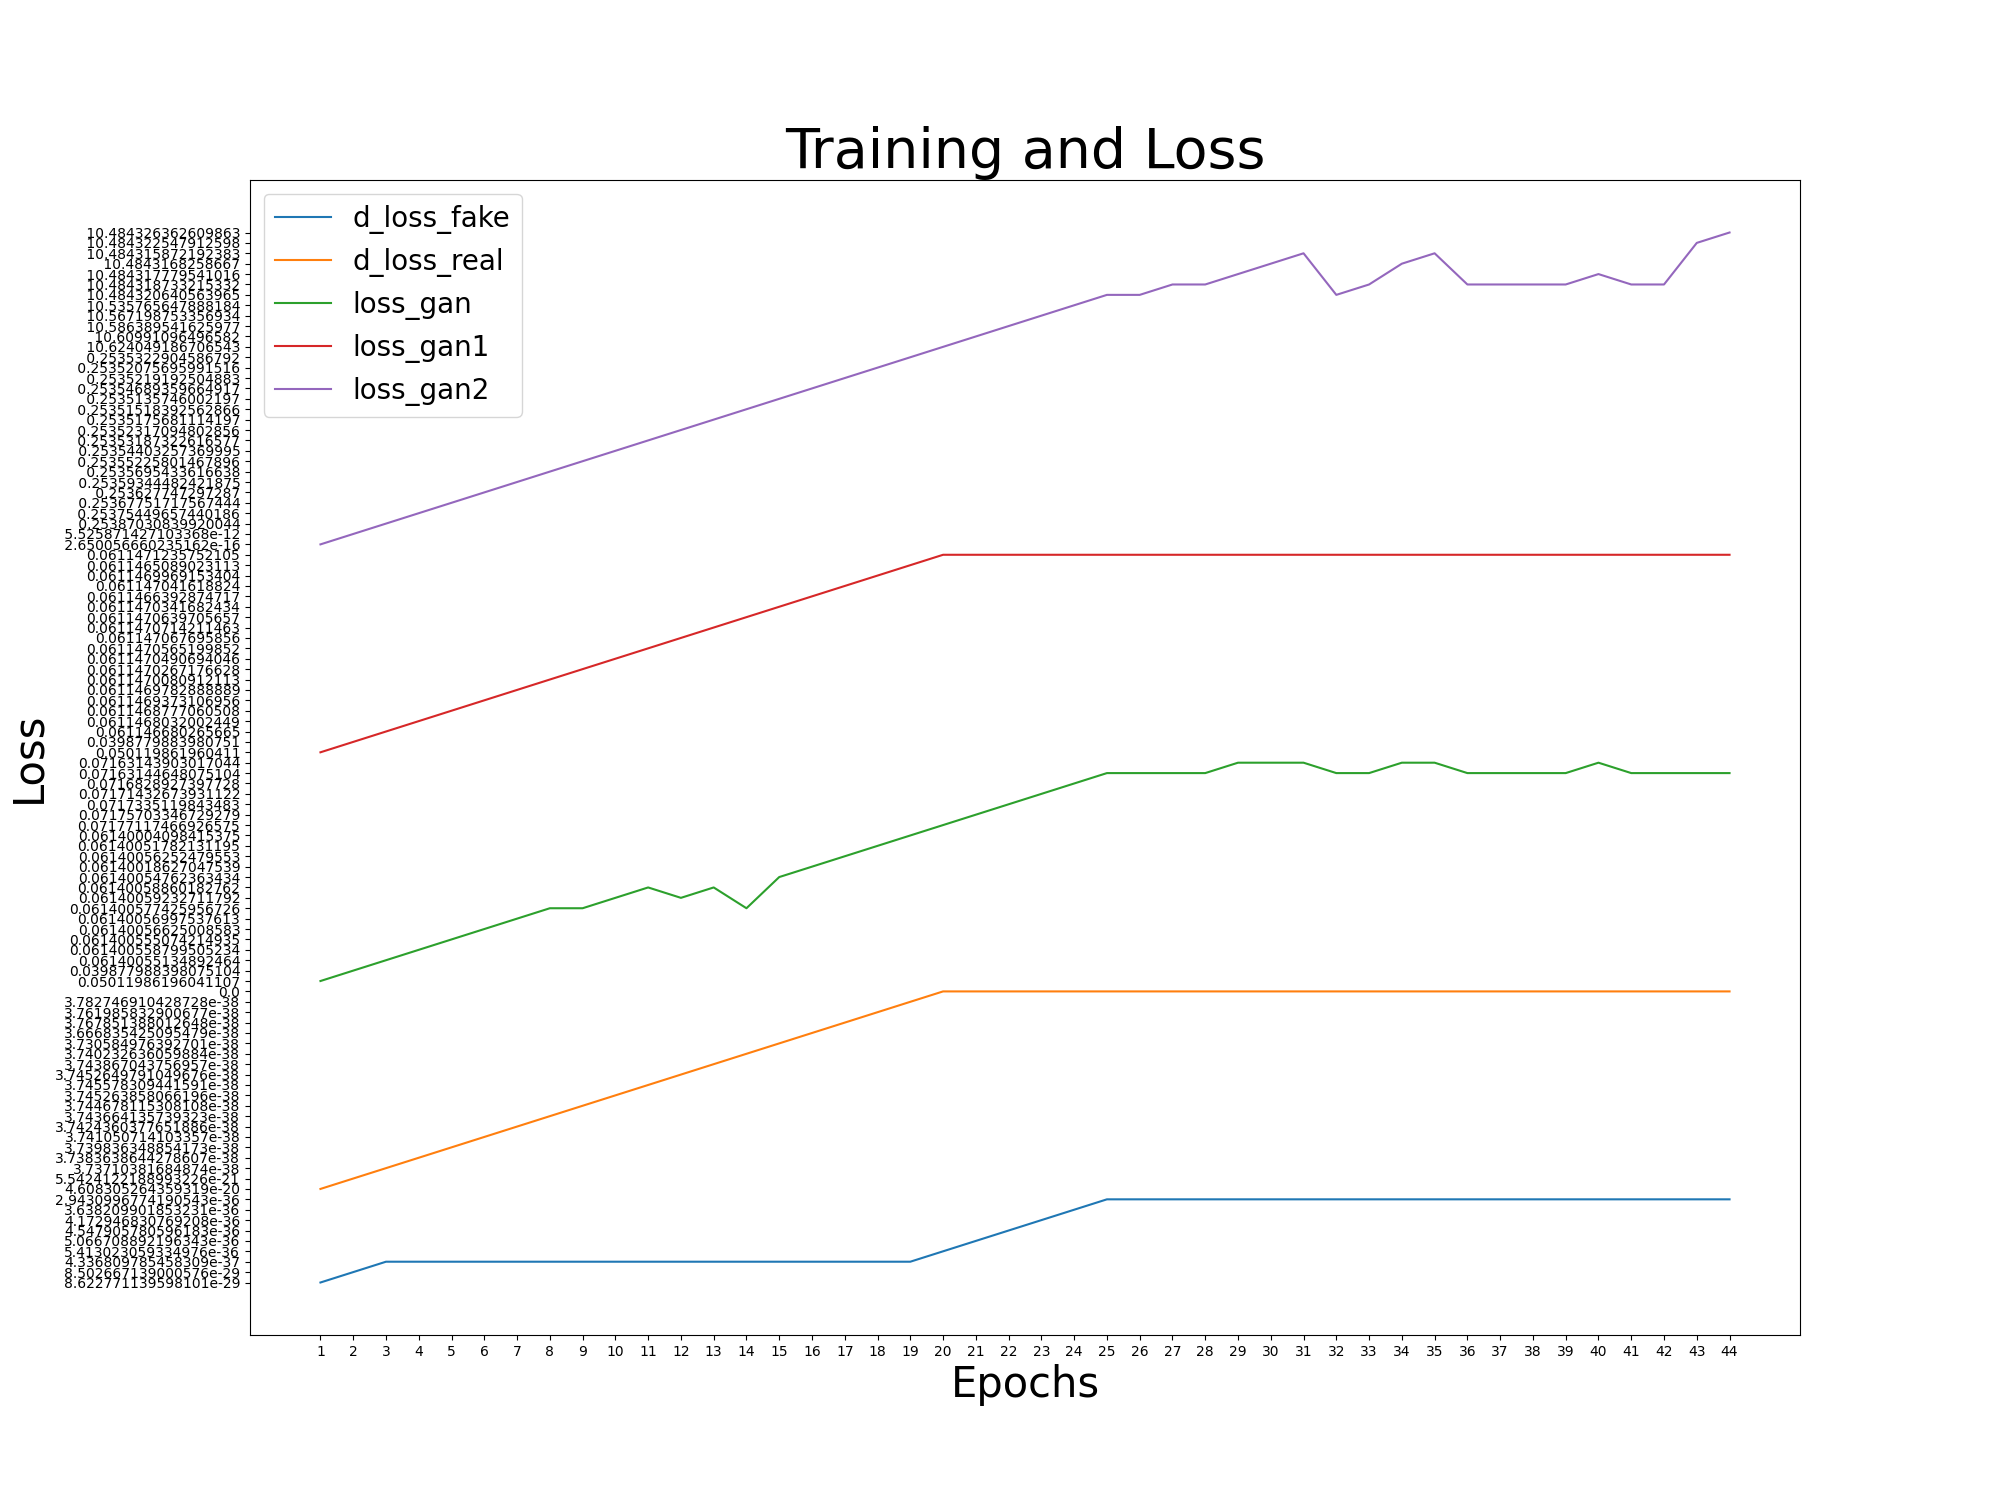
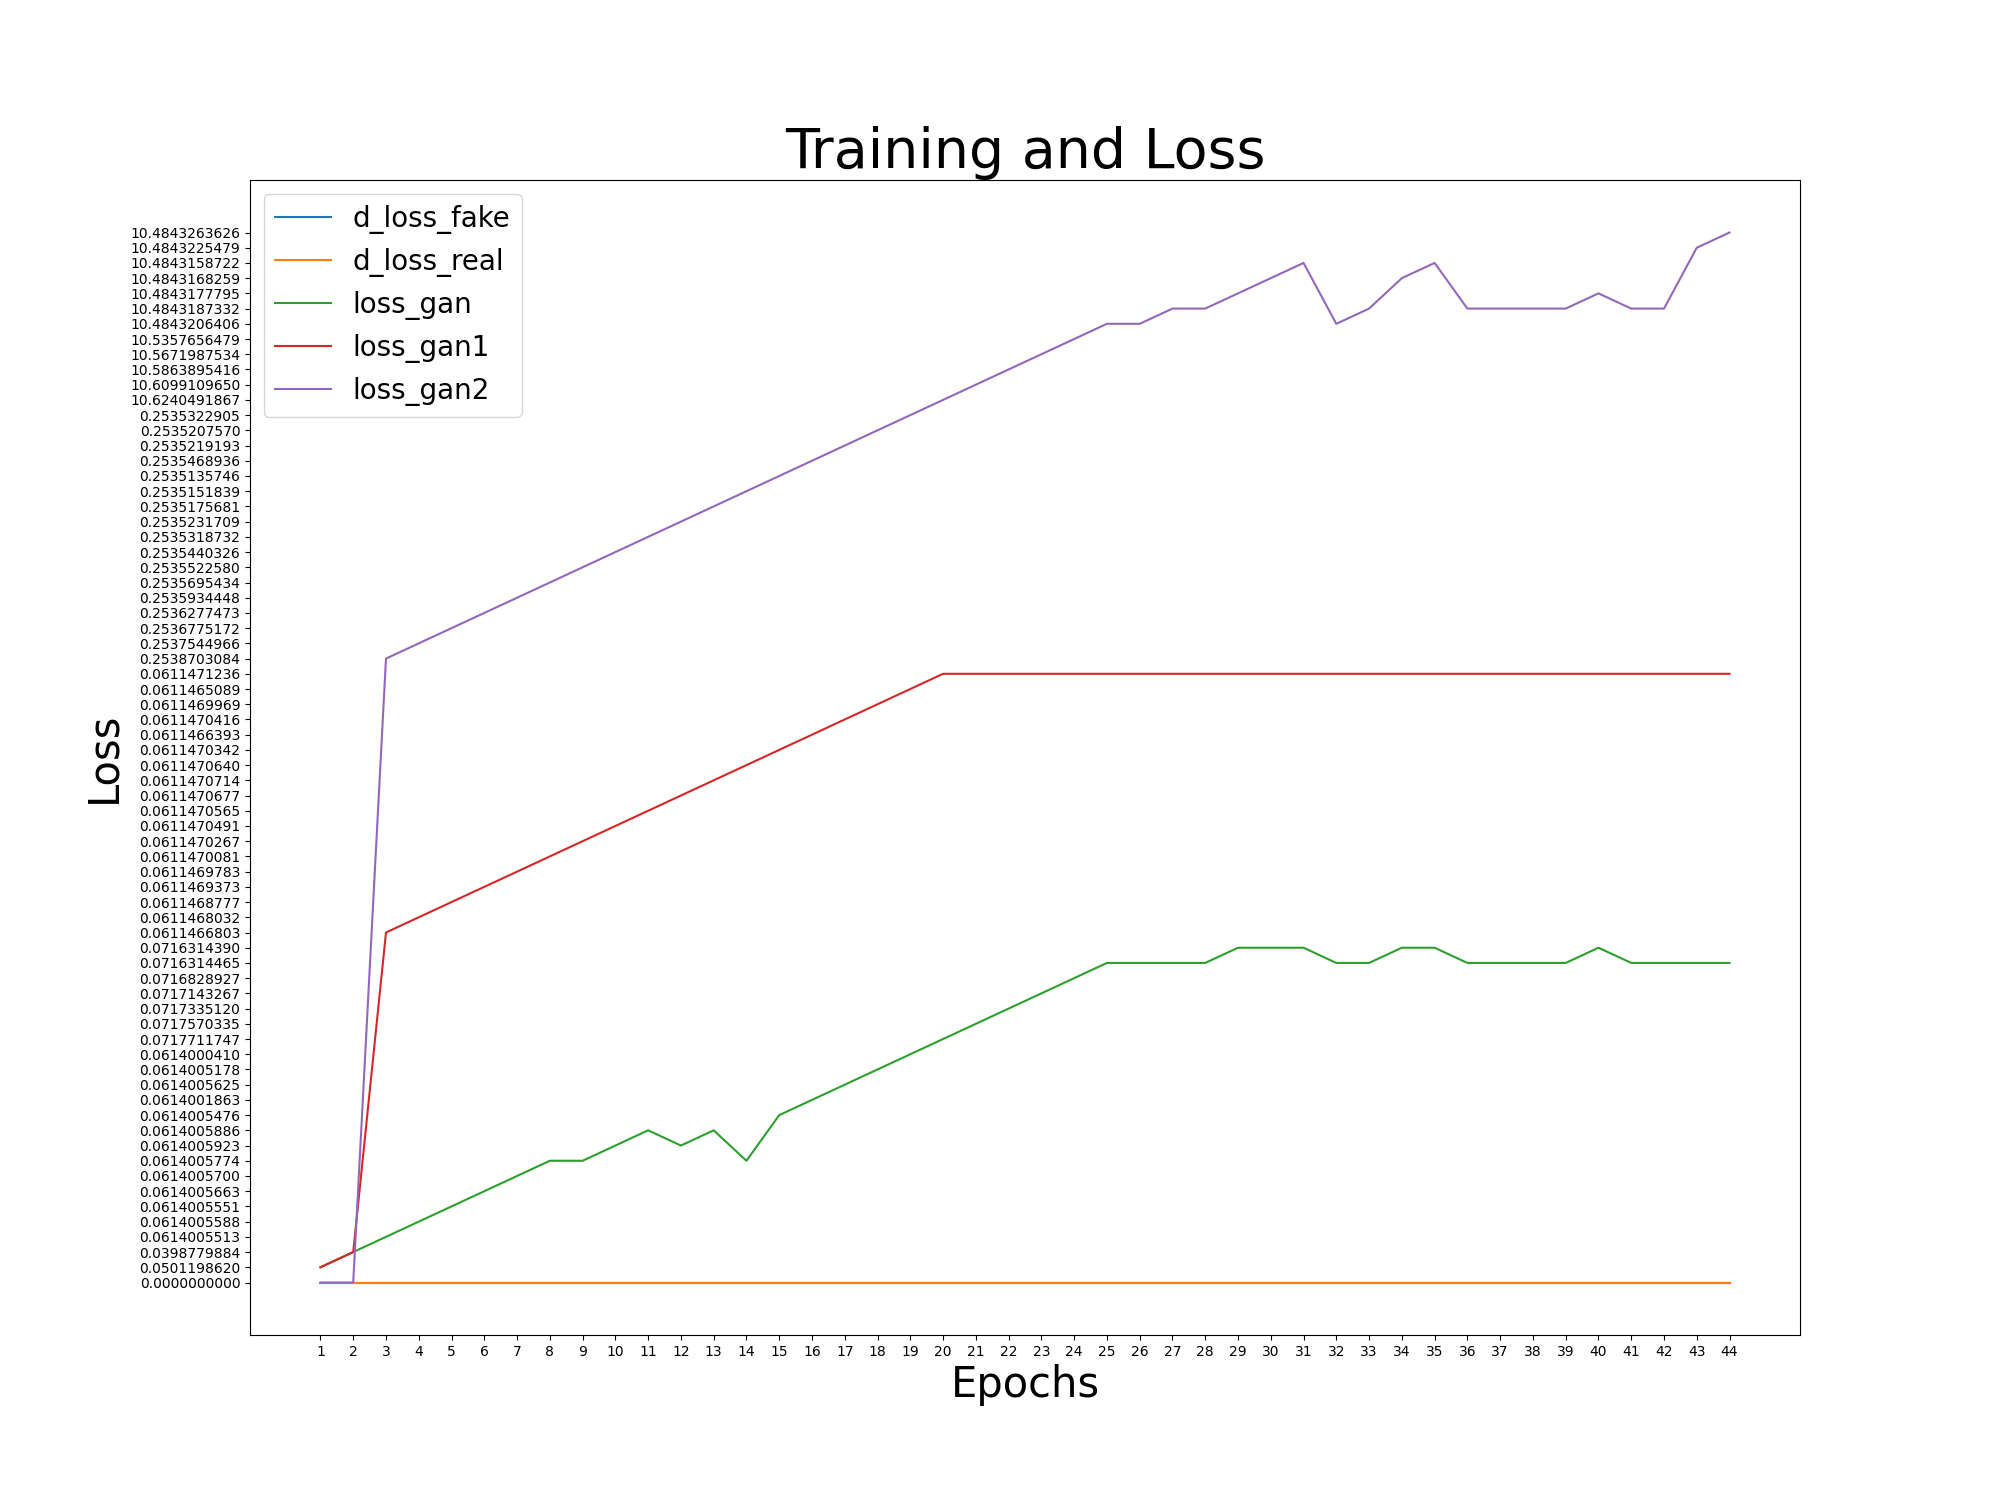
yaxis fixed

diff --git a/results/data_viz.py b/results/data_viz.py
@@ -3,25 +3,26 @@ import matplotlib.pyplot as plt
 
 def get_data():
     data = pd.read_csv('results/loss.txt', names=['Epochs', 'd_loss_fake', 'd_loss_real', 'loss_gan', 'loss_gan1', 'loss_gan2'])
-    df = data
-    for col in df:
-        df[col] =df[col].astype(str).str.replace("[","").str.replace("]","")
+    for col in data:
+        data[col] =data[col].astype(str).str.replace("[","").str.replace("]","")
     return data
+
+def limit_decimals(x):
+        return "{:.10f}".format(float(x))
 
 def plot_all(data):
     epochs = data.loc[:, 'Epochs']
     plt.figure(figsize=(20,15))
-    plt.plot(epochs, data.loc[:, 'd_loss_fake'], label='d_loss_fake')
-    plt.plot(epochs, data.loc[:, 'd_loss_real'], label='d_loss_real')
-    plt.plot(epochs, data.loc[:, 'loss_gan'], label='loss_gan')
-    plt.plot(epochs, data.loc[:, 'loss_gan1'], label='loss_gan1')
-    plt.plot(epochs, data.loc[:, 'loss_gan2'], label='loss_gan2')
+    plt.plot(epochs, data.loc[:, 'd_loss_fake'].map(lambda x: limit_decimals(x)), label='d_loss_fake')
+    plt.plot(epochs, data.loc[:, 'd_loss_real'].map(lambda x: limit_decimals(x)), label='d_loss_real')
+    plt.plot(epochs, data.loc[:, 'loss_gan'].map(lambda x: limit_decimals(x)), label='loss_gan')
+    plt.plot(epochs, data.loc[:, 'loss_gan1'].map(lambda x: limit_decimals(x)), label='loss_gan1')
+    plt.plot(epochs, data.loc[:, 'loss_gan2'].map(lambda x: limit_decimals(x)), label='loss_gan2')
     plt.title('Training and Loss', size=40)
     plt.xlabel('Epochs', size=30)
     plt.ylabel('Loss', size=30)
     plt.legend(fontsize=20)
     plt.savefig('results/graphs/all.png')
-    print(data)
 
 def plot_d_fake(data):
     epochs = data.loc[:, 'Epochs']
@@ -46,9 +47,12 @@ def plot_d_real(data):
 def plot_gen(data):
     epochs = data.loc[:, 'Epochs']
     plt.figure(figsize=(20,15))
-    plt.plot(epochs, data.loc[:, 'loss_gan'], label='loss_gan')
-    plt.plot(epochs, data.loc[:, 'loss_gan1'], label='loss_gan1')
-    plt.plot(epochs, data.loc[:, 'loss_gan2'], label='loss_gan2')
+    # plt.plot(epochs, data.loc[:, 'loss_gan'], label='loss_gan')
+    # plt.plot(epochs, data.loc[:, 'loss_gan1'], label='loss_gan1')
+    # plt.plot(epochs, data.loc[:, 'loss_gan2'], label='loss_gan2')
+    plt.plot(epochs, data.loc[:, 'loss_gan'].map(lambda x: limit_decimals(x)), label='loss_gan')
+    plt.plot(epochs, data.loc[:, 'loss_gan1'].map(lambda x: limit_decimals(x)), label='loss_gan1')
+    plt.plot(epochs, data.loc[:, 'loss_gan2'].map(lambda x: limit_decimals(x)), label='loss_gan2')
     plt.title('Generator Loss', size=40)
     plt.xlabel('Epochs', size=30)
     plt.ylabel('Loss', size=30)
